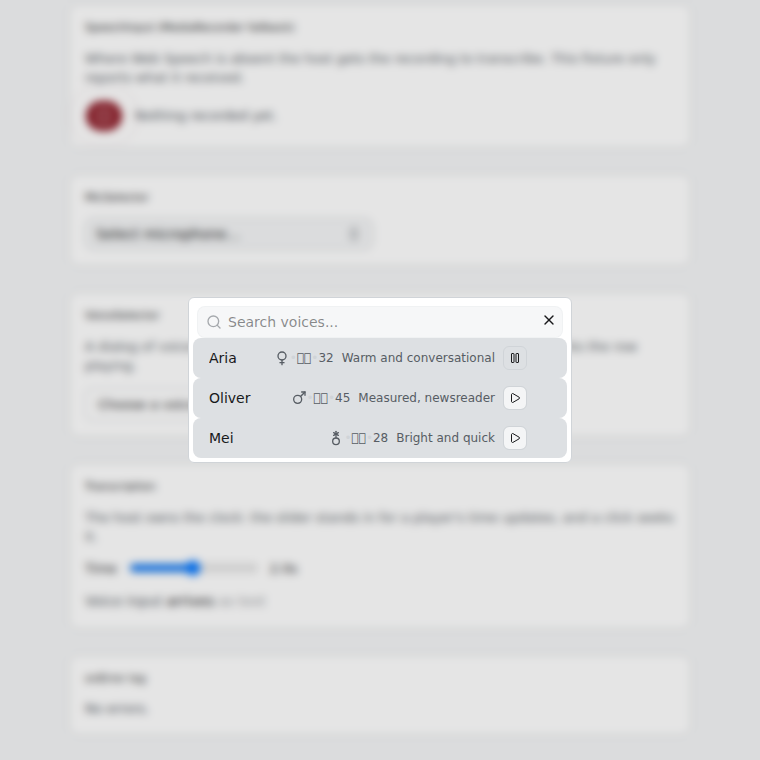
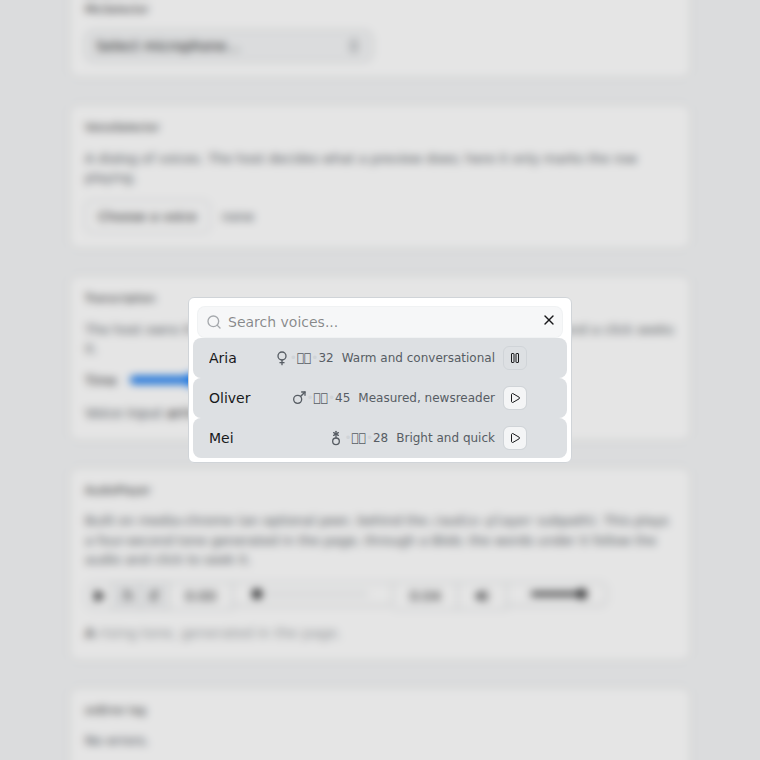
feat(kit-voice): AudioPlayer fixes found in a real browser, docs and evidence (CW-20261002-0048)
Clicking the seek bar in Chromium found two problems in the port: upstream's unitless
--media-control-padding: 0 is invalid inside media-chrome's calc(), which collapsed the time
range's height, and the range left only ~50px of hit area. The padding is now 0px and the time
range defaults to min-w-40. verify-browser.mjs gains the player scenario (47 checks pass, 0
fail): real elements registered, Blob playback, play/pause, seek buttons, time range, volume,
mute, and the paired Transcription following and seeking the audio.

diff --git a/packages/kit-voice/src/audio-player/index.tsx b/packages/kit-voice/src/audio-player/index.tsx
@@ -12,6 +12,10 @@
  *    the text parts use design-components' ButtonGroupText through its `render` prop
  *  - the `--media-*` custom properties use the contract's variables for scale as well as colour (`--text-caption`, `--radius-control`,
  *    a spacing multiple) where upstream had `10px`, `1rem` and `--radius-md`
+ *  - `--media-control-padding` is `0px`, not `0`: a unitless zero is invalid inside media-chrome's calc(), so upstream's declaration was dropped and the
+ *    time range collapsed to zero height (the seek bar could barely be clicked; found by clicking it in a real browser)
+ *  - the time range has `min-w-40` by default: media-chrome's 100px minimum, less the ButtonGroupText's padding and the range's own gaps, left
+ *    a seek bar about 50px wide. `className` overrides it (e.g. `min-w-64`)
  *  - empty `cn("", className)` calls removed
  * Needs the optional peer `media-chrome` (>=4.17.2) and, from design-components, ButtonGroup: the next release (unreleased).
  */
@@ -58,7 +62,10 @@ export const AudioPlayer = ({
         "--media-button-icon-width": "calc(var(--spacing) * 4)",
         "--media-control-background": "transparent",
         "--media-control-hover-background": "var(--color-accent)",
-        "--media-control-padding": "0",
+        // "0px", not upstream's "0": media-chrome uses this inside calc() with lengths, where a
+        // unitless zero is invalid, and the declaration was dropped. The time range's height
+        // collapsed to nothing, so clicking the seek bar mostly missed it.
+        "--media-control-padding": "0px",
         "--media-font": "var(--font-sans)",
         "--media-font-size": "var(--text-caption)",
         "--media-icon-color": "currentColor",
@@ -238,7 +245,7 @@ export const AudioPlayerTimeRange = ({
     className="bg-transparent"
     render={
       <MediaTimeRange
-        className={className}
+        className={cn("min-w-40", className)}
         data-slot="audio-player-time-range"
         {...props}
       />

diff --git a/packages/kit-voice/src/__tests__/audio-player.test.tsx b/packages/kit-voice/src/__tests__/audio-player.test.tsx
@@ -34,6 +34,8 @@ describe('AudioPlayer structure', () => {
     expect(controller.style.getPropertyValue('--media-tooltip-border-radius')).toBe('var(--radius-control)')
     expect(controller.style.getPropertyValue('--media-range-bar-color')).toBe('var(--color-primary)')
     expect(controller.style.getPropertyValue('--media-button-icon-width')).toBe('calc(var(--spacing) * 4)')
+    // A unitless 0 is invalid inside media-chrome's calc(); it collapsed the time range to zero height.
+    expect(controller.style.getPropertyValue('--media-control-padding')).toBe('0px')
     expect(controller.style.color).toBe('red') // host style merges, it does not replace
   })
 
@@ -126,8 +128,16 @@ describe('AudioPlayer controls', () => {
       expect(element.classList.contains('bg-transparent')).toBe(true)
       expect(element.classList.contains('bg-muted')).toBe(false)
     }
+    expect(slot(container, 'audio-player-time-range').classList.contains('min-w-40')).toBe(true) // a seek bar you can hit
     expect(slot(container, 'audio-player-time-display').classList.contains('tabular-nums')).toBe(true)
     expect(slot(container, 'audio-player-duration-display').classList.contains('tabular-nums')).toBe(true)
+  })
+
+  it('lets the host widen the time range', () => {
+    const { container } = render(<AudioPlayerTimeRange className="min-w-64" />)
+    const range = slot(container, 'audio-player-time-range')
+    expect(range.classList.contains('min-w-64')).toBe(true)
+    expect(range.classList.contains('min-w-40')).toBe(false)
   })
 
   it('passes props through to the media element', () => {

diff --git a/packages/kit-voice/src/index.ts b/packages/kit-voice/src/index.ts
@@ -3,8 +3,9 @@
  *
  * Vendored from AI Elements (Apache-2.0) and ported to Base UI and the token contract;
  * see README.md and docs/upstream-versions.md. The main entry carries no heavy
- * dependency. Needs the next design-components release (unreleased): it imports its
- * `useControllableState`.
+ * dependency; `AudioPlayer` and its media-chrome peer live behind the separate
+ * `@hollis-labs/kit-voice/audio-player` entry and are never imported from here. Needs the next
+ * design-components release (unreleased): it imports its `useControllableState`.
  */
 export {
   MicSelector,

diff --git a/packages/kit-voice/README.md b/packages/kit-voice/README.md
@@ -18,15 +18,15 @@ states what diverged (and `docs/upstream-versions.md`). Each lands in its own ch
 | `SpeechInput` | browser APIs only | **available** |
 | `MicSelector` (+ `MicSelector*` parts) and `useAudioDevices` | browser APIs only | **available** |
 | `VoiceSelector` (+ its parts), `Transcription` | browser APIs only | **available** |
-| `AudioPlayer` | `media-chrome`, behind `@hollis-labs/kit-voice/audio-player` | planned. Imports `ButtonGroup`: **needs the next `design-components` release (unreleased)** |
+| `AudioPlayer` (+ its controls) | `media-chrome` (optional peer), behind `@hollis-labs/kit-voice/audio-player` | **available**. Imports `ButtonGroup`: **needs the next `design-components` release (unreleased)** |
 
 Not taken: AI Elements' `Persona`. It needs Rive and `.riv` files hotlinked from
 Vercel's storage, and no licence for those assets is granted by the repository.
 
 **Compatibility.** kit-voice needs the next `design-components` release (unreleased). It
 imports `useControllableState` (used by `MicSelector`, `VoiceSelector` and `Transcription`), which the workspace `design-components` exports but the
-published `0.3.0` does not (and `AudioPlayer`, when it lands, imports `ButtonGroup`, also
-unreleased). Workspace linking hides this; a consumer on registry `0.3.0` would fail to
+published `0.3.0` does not, and `AudioPlayer` imports `ButtonGroup` and `ButtonGroupText`,
+also unreleased. Workspace linking hides this; a consumer on registry `0.3.0` would fail to
 resolve it. The `^0.3.0` range in `package.json` is the sibling convention and is raised
 together with that release by whoever cuts it; nothing here publishes.
 
@@ -187,12 +187,70 @@ A timed transcript that follows a clock and seeks on click. **The host owns the 
   Without `onSeek` (and without a segment `onClick`) segments are plain `<span>`s, not tab stops.
   Left uncontrolled, `currentTime` starts at 0 and follows the last segment clicked.
 
+## AudioPlayer
+
+Controls over an `<audio>` element, built on [media-chrome](https://github.com/muxinc/media-chrome).
+It lives behind its own subpath so a host that plays no audio never loads it:
+
+```bash
+npm install media-chrome        # optional peer, ^4.17.2
+```
+
+```tsx
+import {
+  AudioPlayer, AudioPlayerElement, AudioPlayerControlBar, AudioPlayerPlayButton,
+  AudioPlayerSeekBackwardButton, AudioPlayerSeekForwardButton, AudioPlayerTimeDisplay,
+  AudioPlayerTimeRange, AudioPlayerDurationDisplay, AudioPlayerMuteButton, AudioPlayerVolumeRange,
+} from '@hollis-labs/kit-voice/audio-player'
+
+<AudioPlayer>
+  <AudioPlayerElement src={url} />            {/* or blob={recording} */}
+  <AudioPlayerControlBar>
+    <AudioPlayerPlayButton />
+    <AudioPlayerSeekBackwardButton seekOffset={10} />
+    <AudioPlayerSeekForwardButton seekOffset={10} />
+    <AudioPlayerTimeDisplay />
+    <AudioPlayerTimeRange />
+    <AudioPlayerDurationDisplay />
+    <AudioPlayerMuteButton />
+    <AudioPlayerVolumeRange />
+  </AudioPlayerControlBar>
+</AudioPlayer>
+```
+
+- **`media-chrome` is a peer, and it must be the host's single copy.** It registers custom
+  elements in the global registry, so a second bundled copy either throws "already defined" or
+  quietly uses the wrong class. Without it installed, importing `/audio-player` fails to resolve;
+  the main entry (`@hollis-labs/kit-voice`) never imports it.
+- **The audio is the host's.** `AudioPlayerElement` takes `src` (a URL) or `blob` (a `Blob`: a
+  recording, a fetched speech response). A `blob` is played through an object URL the element
+  creates and revokes when the `Blob` changes or it unmounts. There is no AI SDK type here and no
+  fetching. Captions, if there are any, are `<track>` children of `AudioPlayerElement`.
+- **Pairing with `Transcription`:** read the audio element's `timeupdate` into `currentTime` and
+  seek it from `onSeek` (`ref` is forwarded; the demo's `AudioSection` does exactly this):
+
+  ```tsx
+  const audio = useRef<HTMLAudioElement>(null)
+  const [time, setTime] = useState(0)
+  <AudioPlayerElement ref={audio} src={url} onTimeUpdate={(e) => setTime(e.currentTarget.currentTime)} />
+  <Transcription segments={segments} currentTime={time}
+    onSeek={(t) => { if (audio.current) audio.current.currentTime = t }}>…</Transcription>
+  ```
+- The play and seek buttons carry the outline icon-button classes directly (no Base UI `Button`
+  wrapper, which would add a role, tabindex and key handler to elements that already have them);
+  the time and range parts are `ButtonGroupText`. The `--media-*` custom properties on
+  `AudioPlayer` map to the contract's variables and can be overridden with `style`.
+- **The time range is `min-w-40` by default**; media-chrome's own minimum, less the group's padding,
+  leaves a seek bar about 50px wide. Pass `className="min-w-64"` for more.
+- Not covered by the jsdom tests: media-chrome's elements are not registered under jsdom, so
+  playback, seeking, volume and mute are checked in real Chromium (`docs/evidence/verify-browser.mjs`).
+
 ## Why its own package
 
 `kit-chat` is a published core package versioned in lockstep with five others; voice is
 a different concern with its own release cadence. The main entry carries no heavy
 dependency. `media-chrome` is an **optional peer** reached only through the
-`/audio-player` subpath (not built yet), the same shape as `kit-chat/markdown`: it registers
+`/audio-player` subpath, the same shape as `kit-chat/markdown`: it registers
 custom elements in the global registry, so it must be the host's single copy, and a host
 that does not play audio pays nothing.
 
@@ -224,7 +282,9 @@ npm run demo -w @hollis-labs/kit-voice           # fixtures; ?theme=sysop-p4-whi
   popover is covered in a real browser instead.
 - `docs/evidence/verify-browser.mjs` drives headless Chromium with fake microphones
   (`--use-fake-device-for-media-stream`) over the built demo: the MediaRecorder fallback, the
-  real popover, the no-re-prompt-loop, the insecure-context path. Its output and
+  real popover, the no-re-prompt-loop, the insecure-context path, the voice dialog, and the
+  AudioPlayer playing a local Blob (play, pause, seek buttons, time range, volume, mute, and the
+  paired transcription following and seeking it). Its output and
   light/dark screenshots for two themes are committed beside it. **Not verified anywhere:**
   Web Speech *recognition* itself (no speech service in headless Chromium), Safari and
   Firefox.

diff --git a/packages/kit-voice/docs/upstream-versions.md b/packages/kit-voice/docs/upstream-versions.md
@@ -13,5 +13,7 @@ Read-only checkout: `~/.cache/ai-elements-shared/upstream`. No `NOTICE` file at 
 | `src/voice-selector-context.ts` | `packages/elements/src/voice-selector.tsx` (context, `useVoiceSelector`) | 2026-10-02 | own file (react-refresh) |
 | `src/transcription.tsx` | `packages/elements/src/transcription.tsx` | 2026-10-02 | `ai` type to local `TranscriptionSegmentData`; Radix hook to design-components'; clicking records the time when uncontrolled and always calls `onSeek` (upstream's `onTimeUpdate` was never called); `onTimeUpdate` removed from the context; a non-interactive segment is a `<span>` |
 
+| `src/audio-player/index.tsx` | `packages/elements/src/audio-player.tsx` | 2026-10-02 | `ai` `SpeechResult` removed (`src` or `blob`, object URL created and revoked); `data` no longer spread onto `<audio>`; Radix `asChild` to `buttonVariants()` classes on the media elements and `ButtonGroupText` `render`; `--media-*` on the contract variables; `--media-control-padding: 0px` (unitless `0` is invalid in media-chrome's `calc()`); time range `min-w-40` |
+
 No original (non-vendored) source in this package.
 Not taken: `persona.tsx` (Rive, hotlinked `.riv` assets, no licence for them).

diff --git a/packages/kit-voice/CHANGELOG.md b/packages/kit-voice/CHANGELOG.md
@@ -18,6 +18,13 @@
 - Add `Transcription` and `TranscriptionSegment`, with a local `TranscriptionSegmentData`
   instead of the AI SDK's type. Clicking a segment records the time when uncontrolled and always
   calls `onSeek`; a segment nothing can act on is a `<span>`, not a button.
+- Add `AudioPlayer` and its controls on the opt-in `@hollis-labs/kit-voice/audio-player`
+  subpath, on `media-chrome` (an optional peer; the main entry never imports it). Plays a `src`
+  or a `blob` (object URL created and revoked by the element). Fixes upstream: no `ai`
+  `SpeechResult`, no `data` object spread onto the `<audio>` node, `--media-control-padding` is
+  `0px` (upstream's unitless `0` is invalid in media-chrome's `calc()`, which collapsed the time
+  range's height), and the time range is `min-w-40` by default. **Imports `ButtonGroup` and
+  `ButtonGroupText`: needs the next `design-components` release (unreleased).**
 - Radix's `useControllableState` is replaced by the one `design-components` now exports.
   **kit-voice therefore needs the next `design-components` release (unreleased); the
   published `0.3.0` does not export it.**
